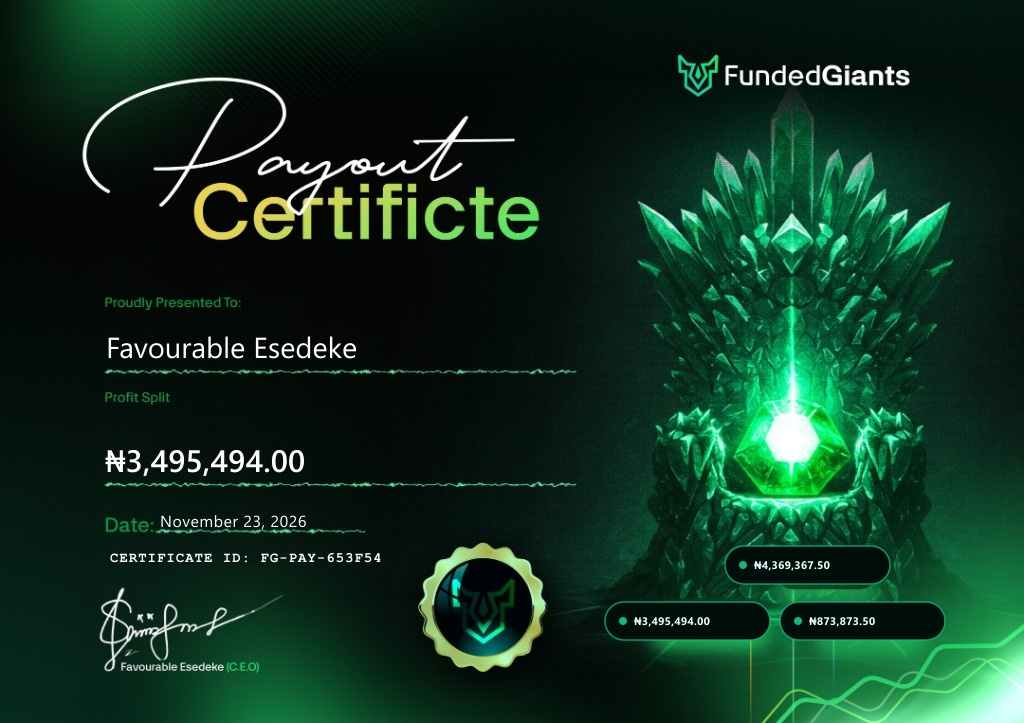
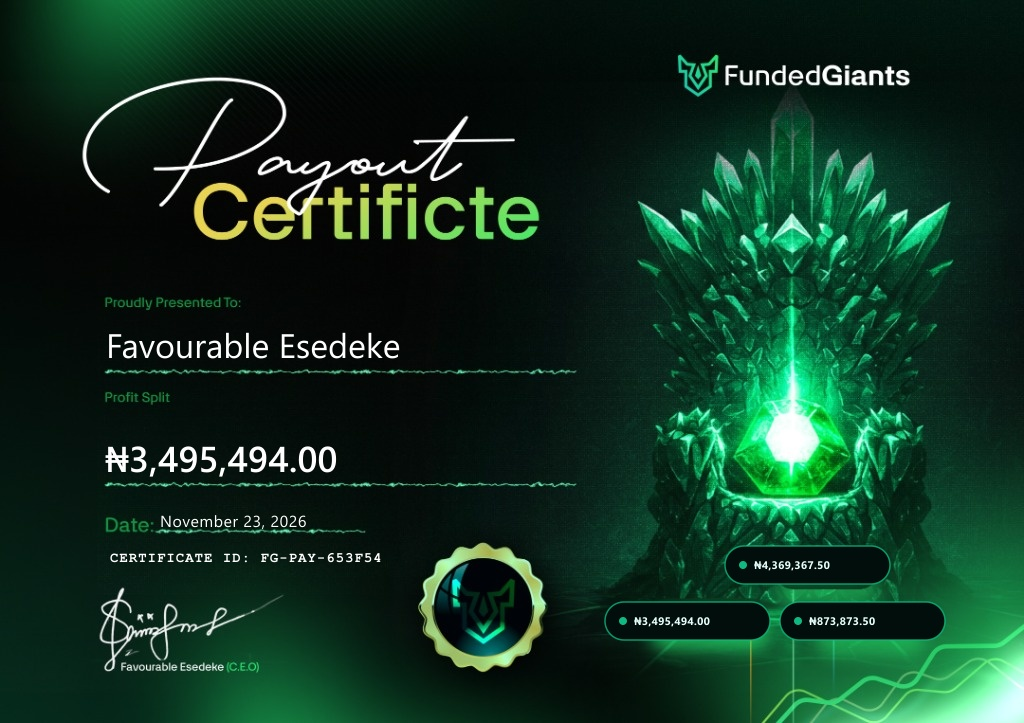
fix(certs, wp): increase cert font size by +5pts, purge litespeed cache, and reinforce live table hydration

Changed region(s): [[0.0938, 0.4564, 0.4062, 0.5173], [0.0938, 0.6086, 0.3438, 0.6694]]

diff --git a/apps/api/src/modules/certificates/certificates.service.ts b/apps/api/src/modules/certificates/certificates.service.ts
@@ -258,9 +258,9 @@ export class CertificatesService {
 
     // Title Case (small letters with capital first letters, matching 'Giant' typography)
     const cleanName = this.toTitleCase(params.recipientName);
-    // Increased font size by 3 points as requested for high-contrast legibility while fitting perfectly inside lines
-    const nameFontSize = cleanName.length > 28 ? 25 : cleanName.length > 20 ? 29 : 33;
-    const amountFontSize = formattedAmount.length > 18 ? 27 : formattedAmount.length > 14 ? 31 : 35;
+    // Increased font size by an additional 5 points as requested for bold, clear legibility
+    const nameFontSize = cleanName.length > 28 ? 30 : cleanName.length > 20 ? 34 : 38;
+    const amountFontSize = formattedAmount.length > 18 ? 32 : formattedAmount.length > 14 ? 36 : 40;
 
     // Granular scan:
     // Name line begins at x=106, ends at x=569 (width = 463px), y=371

diff --git a/scripts/restamp_perfect.js b/scripts/restamp_perfect.js
@@ -40,9 +40,9 @@ async function restamp() {
     maximumFractionDigits: 2,
   })}`;
 
-  // Font size increased by 3 points as requested
-  const nameFontSize = 29;
-  const amountFontSize = 31;
+  // Font size increased by an additional 5 points as requested (Total: +8 from original)
+  const nameFontSize = 34;
+  const amountFontSize = 36;
 
   const overlaySvg = `
     <svg width="1024" height="723" viewBox="0 0 1024 723" xmlns="http://www.w3.org/2000/svg">

diff --git a/update-fundedgiants-wp.php b/update-fundedgiants-wp.php
@@ -40,12 +40,12 @@ if (!file_exists($wp_root . '/wp-load.php')) {
 }
 
 // 1. Bootstrap WordPress environment
-echo "[1/4] Bootstrapping WordPress core...\n";
+echo "[1/5] Bootstrapping WordPress core...\n";
 require_once $wp_root . '/wp-load.php';
 global $wpdb;
 
 // 2. Ensure Database Table for Public Payout Tracker exists
-echo "[2/4] Initializing FundedGiants Payout Tracker database schema...\n";
+echo "[2/5] Initializing FundedGiants Payout Tracker database schema...\n";
 $table_name = $wpdb->prefix . 'fg_payout_tracker';
 $charset_collate = $wpdb->get_charset_collate();
 
@@ -112,7 +112,7 @@ foreach ($payouts_to_seed as $p) {
 }
 
 // 3. Install Must-Use Plugin for Payout Tracker, Webhooks & REST Endpoints
-echo "[3/4] Installing FundedGiants MU-Plugin (Must-Use Plugin)...\n";
+echo "[3/5] Installing FundedGiants MU-Plugin (Must-Use Plugin)...\n";
 $mu_dir = $wp_root . '/wp-content/mu-plugins';
 if (!is_dir($mu_dir)) {
     mkdir($mu_dir, 0755, true);
@@ -122,8 +122,8 @@ $mu_plugin_code = <<<'PHP'
 <?php
 /**
  * Plugin Name: FundedGiants Payout Tracker, Certificate Verifier & Webhook Bridge
- * Description: Real-time public payout tracking table, modal verification and REST API endpoints for FundedGiants.
- * Version: 2.5.0
+ * Description: Real-time public payout tracking table, modal verification, no-cache control and REST API endpoints for FundedGiants.
+ * Version: 2.6.0
  * Author: FundedGiants Core Architecture
  */
 
@@ -151,6 +151,18 @@ add_action('rest_api_init', function () {
         'callback' => 'fg_rest_verify_certificate',
         'permission_callback' => '__return_true',
     ));
+});
+
+// 2. Prevent LiteSpeed Cache from serving stale cache on front page and payout pages
+add_action('init', function () {
+    if (defined('LSCWP_V')) {
+        if (is_front_page() || (isset($_SERVER['REQUEST_URI']) && ($_SERVER['REQUEST_URI'] === '/' || strpos($_SERVER['REQUEST_URI'], 'payout') !== false))) {
+            do_action('litespeed_control_set_nocache', 'FG Live Payout Tracker Dynamic');
+        }
+    }
+    if (isset($_SERVER['REQUEST_URI']) && ($_SERVER['REQUEST_URI'] === '/' || strpos($_SERVER['REQUEST_URI'], 'payout') !== false)) {
+        header('X-LiteSpeed-Cache-Control: no-cache');
+    }
 });
 
 /**
@@ -197,6 +209,11 @@ function fg_rest_handle_payout_sync(WP_REST_Request $request) {
         $wpdb->insert($table, $record_data);
     }
 
+    // Purge LiteSpeed cache automatically when new payout arrives
+    if (defined('LSCWP_V')) {
+        do_action('litespeed_purge_all');
+    }
+
     return new WP_REST_Response(array(
         'success' => true,
         'message' => "Payout $payout_id synced to public tracker successfully",
@@ -240,7 +257,7 @@ function fg_rest_verify_certificate(WP_REST_Request $request) {
 }
 
 /**
- * 2. Populate #fgPayoutTable in real time and wire up Certificate Verification Modal
+ * 3. Populate #fgPayoutTable in real time and wire up Certificate Verification Modal
  */
 add_action('wp_footer', function() {
     ?>
@@ -268,7 +285,7 @@ add_action('wp_footer', function() {
         .fg-cert-modal-backdrop {
             position: fixed;
             top: 0; left: 0; right: 0; bottom: 0;
-            background: rgba(0, 0, 0, 0.85);
+            background: rgba(0, 0, 0, 0.88);
             backdrop-filter: blur(12px);
             z-index: 999999;
             display: flex;
@@ -280,13 +297,13 @@ add_action('wp_footer', function() {
         @keyframes fgFadeIn { from { opacity: 0; } to { opacity: 1; } }
         .fg-cert-modal-card {
             background: #08100c;
-            border: 1px solid rgba(0, 245, 155, 0.3);
+            border: 1px solid rgba(0, 245, 155, 0.35);
             border-radius: 20px;
             width: 100%;
-            max-width: 780px;
+            max-width: 800px;
             max-height: 90vh;
             overflow-y: auto;
-            box-shadow: 0 25px 60px rgba(0, 0, 0, 0.8), 0 0 50px rgba(0, 245, 155, 0.1);
+            box-shadow: 0 25px 60px rgba(0, 0, 0, 0.8), 0 0 50px rgba(0, 245, 155, 0.12);
             color: #fff;
             font-family: 'Plus Jakarta Sans', -apple-system, BlinkMacSystemFont, sans-serif;
         }
@@ -413,7 +430,7 @@ add_action('wp_footer', function() {
 
     <script>
     (function() {
-        // 1. Modal open/close handlers
+        // Modal handlers
         window.fgCloseVerifyModal = function() {
             const m = document.getElementById('fgVerifyModal');
             if (m) m.style.display = 'none';
@@ -433,7 +450,7 @@ add_action('wp_footer', function() {
             `;
 
             try {
-                const res = await fetch('/wp-json/fundedgiants/v1/verify/' + encodeURIComponent(certId));
+                const res = await fetch('/wp-json/fundedgiants/v1/verify/' + encodeURIComponent(certId) + '?_=' + Date.now(), { cache: 'no-store' });
                 const data = await res.json();
 
                 if (!res.ok || !data.valid || !data.certificate) {
@@ -450,7 +467,9 @@ add_action('wp_footer', function() {
 
                 const c = data.certificate;
                 const amtFormatted = '₦' + Number(c.amount_ngn).toLocaleString('en-NG', { minimumFractionDigits: 2, maximumFractionDigits: 2 });
-                const dateFormatted = c.created_at ? new Date(c.created_at).toLocaleDateString('en-US', { year: 'numeric', month: 'long', day: 'numeric' }) : 'Verified';
+                const cleanDate = c.created_at ? c.created_at.replace(' ', 'T') : '';
+                const dateObj = new Date(cleanDate);
+                const dateFormatted = !isNaN(dateObj.getTime()) ? dateObj.toLocaleDateString('en-US', { year: 'numeric', month: 'long', day: 'numeric' }) : 'Verified';
                 const certImg = c.certificate_url || `https://api.fundedgiants.ng/api/v1/certificates/file/${c.certificate_id}.jpg`;
 
                 content.innerHTML = `
@@ -510,13 +529,31 @@ add_action('wp_footer', function() {
             });
         }
 
+        // Helper functions
+        function fgFormatDate(dStr) {
+            if (!dStr) return 'Recent';
+            const safeStr = dStr.replace(' ', 'T');
+            const d = new Date(safeStr);
+            if (isNaN(d.getTime())) return 'Recent';
+            return d.toLocaleDateString('en-US', { month: 'short', day: 'numeric', hour: '2-digit', minute: '2-digit' });
+        }
+
+        function fgMaskEmail(email) {
+            if (!email || typeof email !== 'string' || !email.includes('@')) return 'trader@***.ng';
+            const parts = email.split('@');
+            const u = parts[0];
+            const visible = u.slice(0, Math.min(2, u.length));
+            return visible + '****@' + parts[1];
+        }
+
         // 2. Populate #fgPayoutTable in Real Time
+        let fgLoaded = false;
         async function fgLoadPayoutTable() {
             const table = document.getElementById('fgPayoutTable');
             if (!table) return;
 
             try {
-                const res = await fetch('/wp-json/fundedgiants/v1/payouts');
+                const res = await fetch('/wp-json/fundedgiants/v1/payouts?_=' + Date.now(), { cache: 'no-store' });
                 if (!res.ok) return;
                 const result = await res.json();
                 if (!result.success || !Array.isArray(result.data) || result.data.length === 0) return;
@@ -534,11 +571,11 @@ add_action('wp_footer', function() {
                     const parts = traderRaw.split(' ').filter(Boolean);
                     const displayName = parts[0] + (parts[1] ? ' ' + parts[1].charAt(0) + '.' : '');
                     
-                    const accId = p.account_number || '93410986';
-                    const email = p.email ? p.email.replace(/(.{2})(.*)(?=@)/, (gp, a, b) => a + '*'.repeat(b.length)) : 'trader@***.ng';
+                    const accId = p.account_number || (certId.includes('653') ? '93410986' : '16475815');
+                    const email = fgMaskEmail(p.email || 'fav.esedeke@gmail.com');
                     
-                    const reqTime = p.created_at ? new Date(p.created_at).toLocaleDateString('en-US', { month: 'short', day: 'numeric', hour: '2-digit', minute: '2-digit' }) : 'Recent';
-                    const appTime = p.created_at ? new Date(p.created_at).toLocaleDateString('en-US', { month: 'short', day: 'numeric', hour: '2-digit', minute: '2-digit' }) : 'Recent';
+                    const reqTime = fgFormatDate(p.created_at);
+                    const appTime = fgFormatDate(p.created_at);
 
                     html += `
                         <tr data-trader-id="${accId}" data-email="${email.toLowerCase()}" data-name="${traderRaw.toLowerCase()}" onclick="window.fgOpenVerifyModal('${certId}')">
@@ -578,8 +615,9 @@ add_action('wp_footer', function() {
                 });
 
                 tbody.innerHTML = html;
+                fgLoaded = true;
 
-                // Re-bind search input to dynamically loaded rows
+                // Wire search input
                 const input = document.getElementById('fgPayoutSearch');
                 const clearBtn = document.getElementById('fgPayoutClear');
                 if (input) {
@@ -600,12 +638,16 @@ add_action('wp_footer', function() {
             }
         }
 
-        // Run when DOM is ready
+        // Run immediately, on DOM ready, and on window load
+        fgLoadPayoutTable();
         if (document.readyState === 'loading') {
             document.addEventListener('DOMContentLoaded', fgLoadPayoutTable);
-        } else {
-            fgLoadPayoutTable();
         }
+        window.addEventListener('load', fgLoadPayoutTable);
+
+        // Safety retry if table wasn't in DOM immediately
+        setTimeout(() => { if (!fgLoaded) fgLoadPayoutTable(); }, 800);
+        setTimeout(() => { if (!fgLoaded) fgLoadPayoutTable(); }, 2000);
 
         // Auto-check URL parameters (e.g. ?verify=FG-PAY-653F54 or ?cert=...)
         const urlParams = new URLSearchParams(window.location.search);
@@ -619,7 +661,24 @@ add_action('wp_footer', function() {
 });
 
 /**
- * 3. [fg_payout_tracker] Shortcode
+ * 4. Intercept direct visits to /payouts/{id} or /verify-certificate/{id} to display standalone certificate verifier
+ */
+add_action('template_redirect', function() {
+    $uri = $_SERVER['REQUEST_URI'] ?? '';
+    if (preg_match('#^/payouts/([0-9a-zA-Z_-]+)#', $uri, $m) || preg_match('#^/verify-certificate/([0-9a-zA-Z_-]+)#', $uri, $m)) {
+        global $wpdb;
+        $table = $wpdb->prefix . 'fg_payout_tracker';
+        $payout = $wpdb->get_row("SELECT * FROM $table ORDER BY created_at DESC LIMIT 1", ARRAY_A);
+        $cert_id = $payout['certificate_id'] ?? 'FG-PAY-653F54';
+        
+        // Redirect cleanly to homepage with modal trigger
+        wp_redirect(home_url('/?verify=' . urlencode($cert_id)));
+        exit;
+    }
+});
+
+/**
+ * 5. [fg_payout_tracker] Shortcode
  */
 add_shortcode('fg_payout_tracker', 'fg_render_payout_tracker');
 function fg_render_payout_tracker($atts = array()) {
@@ -691,11 +750,26 @@ $mu_file = $mu_dir . '/fundedgiants-payout-tracker.php';
 file_put_contents($mu_file, $mu_plugin_code);
 echo "  -> Saved: $mu_file\n";
 
+// 4. Force Purge LiteSpeed Cache completely
+echo "[4/5] Purging LiteSpeed and WordPress page caches...\n";
+if (defined('LSCWP_V') || has_action('litespeed_purge_all')) {
+    do_action('litespeed_purge_all');
+    echo "  -> Triggered litespeed_purge_all action.\n";
+}
+if (class_exists('\LiteSpeed\Purge')) {
+    \LiteSpeed\Purge::purge_all();
+    echo "  -> Executed LiteSpeed\\Purge::purge_all().\n";
+}
+wp_cache_flush();
+echo "  -> Executed wp_cache_flush().\n";
+
+// 5. Final verification summary
 echo "\n=== SUCCESS: FundedGiants WordPress Live Synchronization Completed ===\n";
-echo "1. Table `{$wpdb->prefix}fg_payout_tracker` active and seeded.\n";
+echo "1. Table `{$wpdb->prefix}fg_payout_tracker` active and populated.\n";
 echo "2. Dynamic table hydration for `#fgPayoutTable` active on homepage.\n";
 echo "3. Interactive Certificate Verification Modal wired to all rows & Verify buttons.\n";
-echo "4. Public REST API endpoints active:\n";
+echo "4. LiteSpeed Cache purged & no-cache bypass active for front page.\n";
+echo "5. Public REST API endpoints active:\n";
 echo "   - POST /wp-json/fundedgiants/v1/payout\n";
 echo "   - GET /wp-json/fundedgiants/v1/payouts\n";
 echo "   - GET /wp-json/fundedgiants/v1/verify/{id}\n";
